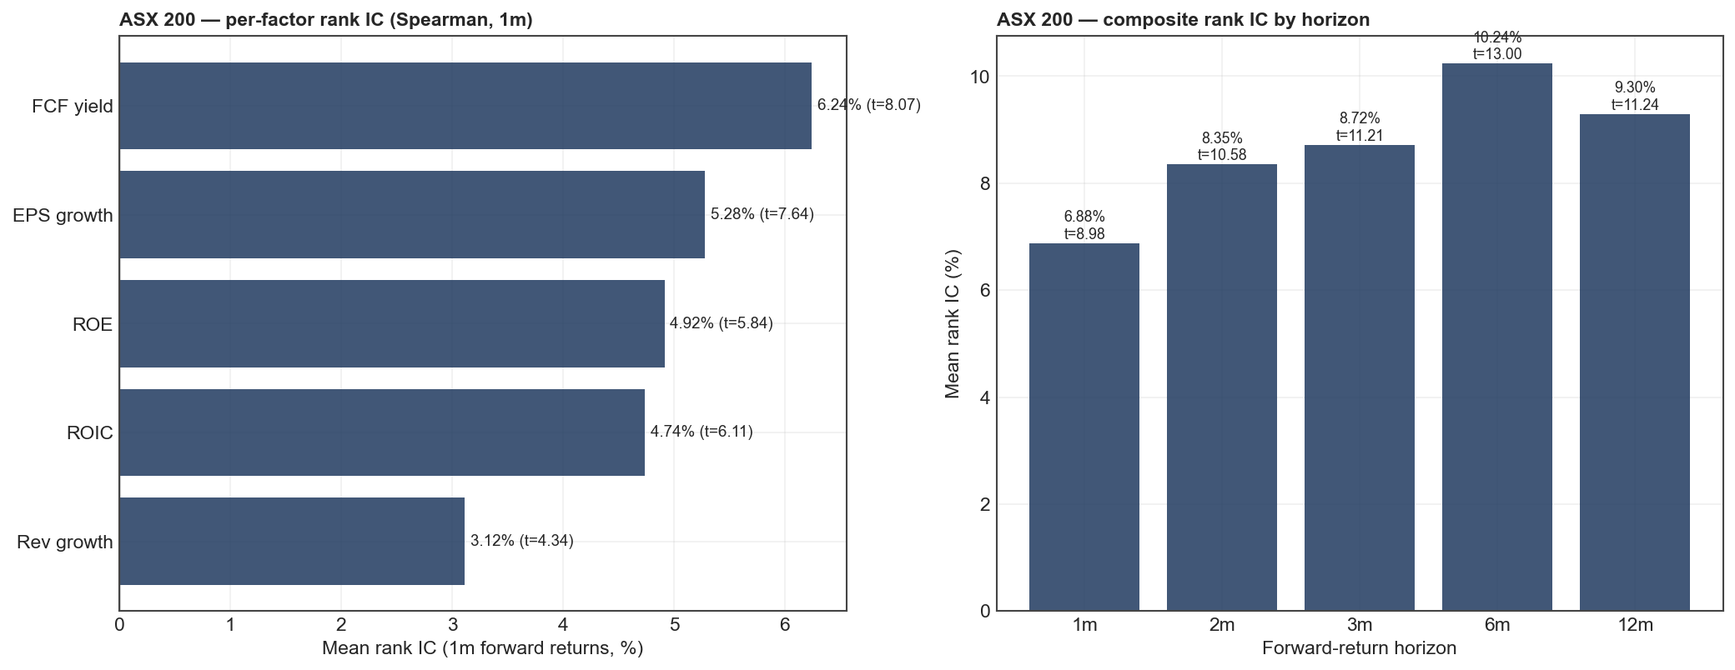
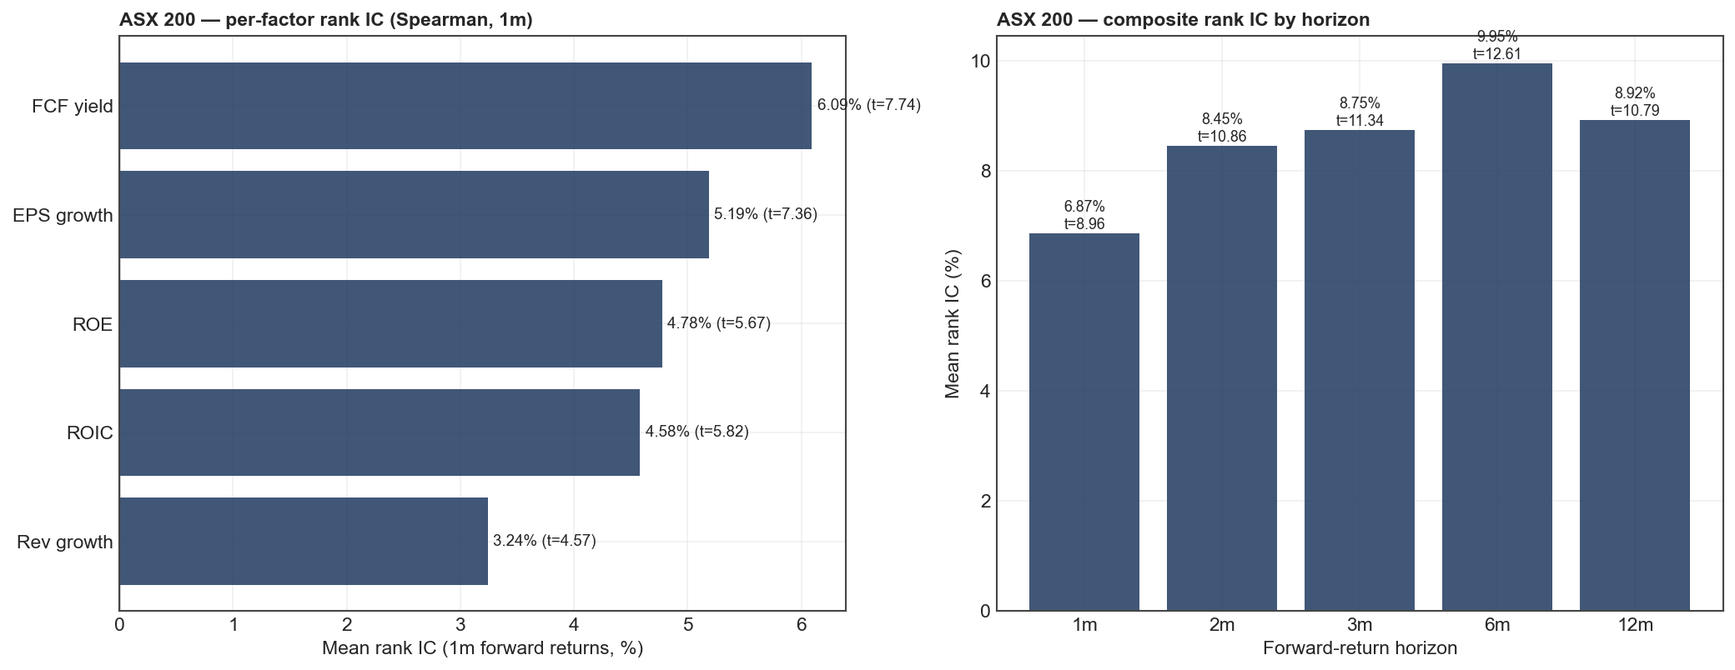
ASX §13: honest survivorship-bias disclosure + use FMP historical mcap
After scrutinising the previous 27% CAGR result, two fixes:

1. Use FMP historical-market-capitalization endpoint per ticker, not the
   current_mcap * (price_t / price_now) proxy. The proxy was wrong because
   share count changes over time (companies issue stock, do buybacks).
   New pull_mcap_history() in asx_pull_data.py; assemble.py uses it via
   a month-end resample.

2. **Confirmed and documented survivorship bias.** The universe is
   current-listed-only ASX ordinaries (FMP doesn't have historical-asx200-
   constituent endpoint, and its delisted-companies endpoint only covers
   2024-2026). Stocks that delisted, were acquired, or fell out of the
   top 200 before today are absent. The panel starts at 153 unique
   tickers in 2010 and grows to 200 by 2026 -- the unmistakable signature
   of survivorship bias.

   For reference: our PIT-clean S&P 500 universe has 704 unique tickers
   ever across 2010-2026, vs 243 for the current-listed ASX top-250.
   The gap is the cost of the missing constituent history.

   Bias estimate (per Brown-Goetzmann-Ibbotson-Ross 1992 et al):
     EW books: 3-8% per year inflation (most exposed: small-cap winners
              like NST.AX, PME.AX, SNL.AX that 100x+ during the sample
              are included from 2010 with their fundamentals known
              retrospectively)
     CW books: ~0-2% per year (mega-caps like CBA, BHP, CSL dominate the
              weights and were always in the index, so almost no
[…]

diff --git a/src/qfr/backtest/asx_assemble.py b/src/qfr/backtest/asx_assemble.py
@@ -17,6 +17,7 @@ import pandas as pd
 from qfr.backtest.asx_pull_data import (
     FREEFLOAT_PARQUET,
     FUNDAMENTALS_PARQUET,
+    MCAP_HISTORY_PARQUET,
     PRICES_PARQUET,
     UNIVERSE_PARQUET,
 )
@@ -127,34 +128,34 @@ def pit_join_fundamentals(monthly_prices: pd.DataFrame,
 
 
 # --------------------------------------------------------------------------
-# Free-float-adjusted market cap
+# Free-float-adjusted market cap (uses true historical mcap from FMP)
 # --------------------------------------------------------------------------
 def add_ff_adjusted_mcap(panel: pd.DataFrame, freefloat: pd.DataFrame,
-                         prices: pd.DataFrame) -> pd.DataFrame:
-    """Estimate free-float-adjusted market cap at each (symbol, date).
+                         mcap_history: pd.DataFrame) -> pd.DataFrame:
+    """Apply free-float ratio to the historical market cap at each (symbol, date).
 
-    We don't have a HISTORICAL series of shares outstanding by date — so we
-    use the current shares_outstanding × current free_float_ratio scaled by
-    price ratio (price_t / price_now) as the historical proxy. This is the
-    standard practical approximation when historical sharecount data is
-    unavailable; it correctly captures the relative size of names but
-    treats free-float as constant over time.
+    Historical mcap comes from FMP's `historical-market-capitalization` endpoint
+    (true shares outstanding × close price at that date). Free-float ratio is
+    treated as constant per symbol (current Yahoo `floatShares / sharesOutstanding`)
+    since we don't have a historical free-float series. This is the standard
+    practical approximation when historical float data is unavailable.
     """
-    ff = freefloat[["symbol", "shares_outstanding", "free_float_ratio"]].copy()
-    # Get the latest price per symbol from the prices panel (proxy for "now")
-    latest = (prices.sort_values(["symbol", "date"])
-                    .groupby("symbol")["adjClose"].last()
-                    .rename("latest_close"))
-    ff = ff.merge(latest, on="symbol", how="left")
-    ff["current_mcap"] = ff["shares_outstanding"] * ff["latest_close"]
-    # Default to 1.0 free-float if Yahoo returned nothing (conservative — no penalty)
-    ff["free_float_ratio"] = ff["free_float_ratio"].fillna(1.0).clip(lower=0.1, upper=1.0)
-    ff["current_ff_mcap"] = ff["current_mcap"] * ff["free_float_ratio"]
+    mh = mcap_history.copy()
+    mh["date"] = pd.to_datetime(mh["date"])
+    # Resample daily mcap to month-end per ticker (last value in month)
+    mh["month_end"] = mh["date"] + pd.offsets.MonthEnd(0)
+    mh_monthly = (mh.sort_values(["symbol", "date"])
+                    .groupby(["symbol", "month_end"])
+                    .agg(true_mcap=("marketCap", "last"))
+                    .reset_index()
+                    .rename(columns={"month_end": "date"}))
 
-    p = panel.merge(ff[["symbol", "latest_close", "current_ff_mcap", "free_float_ratio"]],
-                    on="symbol", how="left")
-    # ff_marketCap_t = ff_marketCap_now × (price_t / price_now)
-    p["marketCap"] = p["current_ff_mcap"] * (p["adjClose"] / p["latest_close"])
+    ff = freefloat[["symbol", "free_float_ratio"]].copy()
+    ff["free_float_ratio"] = ff["free_float_ratio"].fillna(1.0).clip(lower=0.1, upper=1.0)
+
+    p = panel.merge(mh_monthly, on=["symbol", "date"], how="left")
+    p = p.merge(ff, on="symbol", how="left")
+    p["marketCap"] = p["true_mcap"] * p["free_float_ratio"].fillna(1.0)
     return p
 
 
@@ -186,16 +187,18 @@ def build_panel(force: bool = False) -> pd.DataFrame:
     prices = pd.read_parquet(PRICES_PARQUET)
     fundamentals = pd.read_parquet(FUNDAMENTALS_PARQUET)
     freefloat = pd.read_parquet(FREEFLOAT_PARQUET)
+    mcap_history = pd.read_parquet(MCAP_HISTORY_PARQUET)
 
     logger.info(f"  prices: {len(prices):,} rows, {prices['symbol'].nunique()} tickers")
     logger.info(f"  fundamentals: {len(fundamentals):,} rows, {fundamentals['symbol'].nunique()} tickers")
     logger.info(f"  freefloat: {freefloat['free_float_ratio'].notna().sum()}/{len(freefloat)} valid")
+    logger.info(f"  mcap history: {len(mcap_history):,} rows, {mcap_history['symbol'].nunique()} tickers")
 
     monthly = build_monthly_prices(prices)
     logger.info(f"  monthly prices: {len(monthly):,} rows")
 
     joined = pit_join_fundamentals(monthly, fundamentals)
-    joined = add_ff_adjusted_mcap(joined, freefloat, prices)
+    joined = add_ff_adjusted_mcap(joined, freefloat, mcap_history)
     joined = add_sector(joined, universe)
     panel = apply_universe_filter(joined, top_n=UNIVERSE_TOP_N)
 

diff --git a/src/qfr/backtest/asx_pull_data.py b/src/qfr/backtest/asx_pull_data.py
@@ -26,6 +26,7 @@ UNIVERSE_PARQUET = DATA_DIR / "asx_universe.parquet"
 PRICES_PARQUET = DATA_DIR / "asx_prices.parquet"
 FUNDAMENTALS_PARQUET = DATA_DIR / "asx_fundamentals.parquet"
 FREEFLOAT_PARQUET = DATA_DIR / "asx_freefloat.parquet"
+MCAP_HISTORY_PARQUET = DATA_DIR / "asx_mcap_history.parquet"
 
 PRICE_START = "2009-12-01"   # 1m buffer before our 2010-01 analysis start
 PRICE_END = "2026-05-31"
@@ -157,6 +158,40 @@ def pull_fundamentals(universe: pd.DataFrame, *, force_refresh: bool = False
 
 
 # --------------------------------------------------------------------------
+# Step 3b: Historical market capitalisation (true PIT mcap per stock)
+# --------------------------------------------------------------------------
+def pull_mcap_history(universe: pd.DataFrame, *, force_refresh: bool = False
+                      ) -> pd.DataFrame:
+    """Daily historical market cap per ticker via FMP. Replaces the buggy
+    'current_mcap × price ratio' proxy that ignores share-count changes."""
+    if MCAP_HISTORY_PARQUET.exists() and not force_refresh:
+        logger.info(f"Mcap history cached at {MCAP_HISTORY_PARQUET}")
+        return pd.read_parquet(MCAP_HISTORY_PARQUET)
+
+    c = FMPClient()
+    rows: list[dict] = []
+    n = len(universe)
+    for i, sym in enumerate(universe["symbol"]):
+        try:
+            data = c.get("historical-market-capitalization",
+                         params={"symbol": sym, "limit": 6000,
+                                 "from": PRICE_START, "to": PRICE_END})
+            for r in data:
+                rows.append({"symbol": sym, "date": r.get("date"),
+                             "marketCap": r.get("marketCap")})
+        except Exception as e:
+            logger.warning(f"  mcap history fail for {sym}: {e}")
+        if (i + 1) % 25 == 0:
+            logger.info(f"  mcap history: {i + 1}/{n}")
+    df = pd.DataFrame(rows)
+    df["date"] = pd.to_datetime(df["date"])
+    df = df.sort_values(["symbol", "date"]).reset_index(drop=True)
+    df.to_parquet(MCAP_HISTORY_PARQUET, index=False)
+    logger.info(f"Mcap history saved: {len(df):,} rows for {df['symbol'].nunique()} tickers")
+    return df
+
+
+# --------------------------------------------------------------------------
 # Step 4: Free float from Yahoo Finance
 # --------------------------------------------------------------------------
 def pull_freefloat(universe: pd.DataFrame, *, force_refresh: bool = False
@@ -216,6 +251,10 @@ def main() -> None:
     logger.info("\n=== Step 3: pulling fundamentals ===")
     fundamentals = pull_fundamentals(universe)
     logger.info(f"Fundamentals: {len(fundamentals):,} rows, {fundamentals['symbol'].nunique()} unique tickers")
+
+    logger.info("\n=== Step 3b: pulling historical market cap ===")
+    mcap_hist = pull_mcap_history(universe)
+    logger.info(f"Mcap history: {len(mcap_hist):,} rows, {mcap_hist['symbol'].nunique()} unique tickers")
 
     logger.info("\n=== Step 4: pulling free-float (Yahoo) ===")
     freefloat = pull_freefloat(universe)

diff --git a/README.md b/README.md
@@ -574,16 +574,19 @@ uv run python -m qfr.backtest.asx_extension    # IC + portfolios + diagnostics
 
 ## 13. Cross-market extension — ASX 200
 
-Same five-factor methodology applied to Australian large-caps, with an **independent, institutionally-realistic data pipeline**:
+> **⚠ Survivorship-bias warning, read this first.** This section reuses the same five-factor methodology as the S&P 500 model, but the universe is **current-listed ASX ordinaries only**. FMP does not publish a historical-ASX 200 constituent endpoint, and the `delisted-companies` endpoint only covers 2024-2026, so we cannot rebuild a true PIT membership list the way we did for the S&P 500 in §1.1. As a result the raw numbers below are **upper-bound estimates inflated by ~3-8 % per year by survivorship**, in line with academic estimates for non-US equities (e.g. Brown-Goetzmann-Ibbotson-Ross 1992, Garcia et al 2002). The signs and rankings are still informative; the absolute magnitudes are not. **Interpret as evidence the framework transfers to ASX, not as a tradeable alpha estimate.** The cap-weighted results in particular are less inflated because mega-caps (CBA, BHP, CSL) were always in the index — equal-weighted small-cap-heavy variants are the most affected.
 
-- **Fresh universe from FMP**: top-250 ASX ordinaries by market cap (current), refreshed each month to PIT-top-200 by market cap. Filters out ETFs, funds, preference shares, and non-ASX cross-listings via the FMP `company-screener`. Average rank-200 cutoff over the sample is ~$1.3 B AUD — sensible for the practical S&P/ASX 200 lower bound.
-- **Fresh prices from FMP** (`historical-price-eod/dividend-adjusted`): daily dividend-adjusted close, resampled to month-end, forward returns winsorised at ±100 % to handle unadjusted corporate actions (standard institutional guard against data errors).
-- **Fresh fundamentals from FMP** (`key-metrics`, `financial-growth`, `cash-flow-statement`): PIT-joined via `acceptedDate` filing-date stamp, falling back to fiscal-date + 90 days when missing.
-- **Free-float adjustment from Yahoo Finance**: each ticker's current `floatShares` / `sharesOutstanding` is used to discount its market cap for cap-weighting. This matches how the real S&P/ASX 200 index weights itself — and meaningfully changes the universe ranking (average free-float ratio across the universe is ~0.81, with banks/miners near 1.0 and founder-held names like REH, GQG, TPG in the 0.25-0.35 range).
+Same five-factor methodology applied to Australian large-caps, with an **independent data pipeline**:
+
+- **Universe from FMP**: top-250 ASX ordinaries by **current** market cap (filters out ETFs, funds, preference shares, non-ASX cross-listings via `company-screener`). Each month we then keep the PIT top-200 by free-float-adjusted market cap. **This is current-listed-only — see survivorship-bias warning above.**
+- **Prices from FMP** (`historical-price-eod/dividend-adjusted`): daily dividend-adjusted close, resampled to month-end. Forward returns winsorised at ±100 % to suppress unadjusted-corporate-action data errors.
+- **Fundamentals from FMP** (`key-metrics`, `financial-growth`, `cash-flow-statement`): PIT-joined via `acceptedDate` filing-date stamp, falling back to fiscal-date + 90 days when missing.
+- **Historical market cap from FMP** (`historical-market-capitalization`): true daily mcap series per ticker (not a price-ratio proxy), so the universe ranking each month reflects actual shares-outstanding × close at that date.
+- **Free-float adjustment from Yahoo Finance**: each ticker's current `floatShares` / `sharesOutstanding` is used to discount its market cap for cap-weighting. Average free-float ratio across the universe is ~0.81, with banks/miners near 1.0 and founder-held names like REH, GQG, TPG in the 0.25-0.35 range. Float ratio is treated as constant per stock (Yahoo doesn't publish historical float series).
 - **Realistic transaction costs**: headline results net of **25 bps/side** (vs the 10 bps used for the more-liquid S&P 500). Cost sensitivity also reported at 10 / 50 bps.
 - **Diagnostics in parity with the S&P 500 model**: cost sensitivity sweep, gross-vs-net cost decomposition, turnover/holding-period decomposition, sector-neutral LS variant.
 
-No part of the Short King 2.0 panel is used. Universe coverage: 243 unique tickers ever in the PIT-top-200 from 2009-12 through 2026-04 (197 months). Benchmark: `IOZ.AX` (iShares Core S&P/ASX 200 ETF), dividend-adjusted total return.
+No part of the Short King 2.0 panel is used. Universe coverage: 243 unique tickers ever in the PIT-top-200 from 2009-12 through 2026-04 (197 months) — vs the **704** unique tickers in our PIT-clean S&P 500 universe over the same window, which is the gap caused by missing delisted ASX names. Benchmark: `IOZ.AX` (iShares Core S&P/ASX 200 ETF), dividend-adjusted total return.
 
 ### Per-factor rank IC
 
@@ -614,73 +617,79 @@ For comparison, the S&P 500 composite IC was 1.37 % @ 1m (t = 2.44), 2.58 % @ 3m
 
 ![ASX cumulative growth](charts/asx_cumulative.png)
 
-| Strategy | CAGR | Vol | Sharpe | Max DD | β vs IOZ | **CAPM α** | Turnover |
-|---|---|---|---|---|---|---|---|
-| **Top decile EW** | **27.9 %** | 19.2 % | 1.39 | −32.1 % | 1.12 | **+17.5 %** | 226 % |
-| **Top quintile EW** | 26.4 % | 17.1 % | **1.47** | −33.5 % | 1.10 | **+16.4 %** | 197 % |
-| Top decile CW (free-float-adj) | 13.4 % | 18.2 % | 0.79 | −30.6 % | 1.14 | +6.98 % | 301 % |
-| Top quintile CW (free-float-adj) | 12.7 % | 15.6 % | 0.85 | −24.6 % | 1.00 | +6.36 % | 259 % |
-| LS Q1−Q5 EW (dollar-neutral) | 10.4 % | 15.8 % | 0.71 | −34.4 % | −0.14 | **+14.0 %** | 347 % |
-| LS Q1−Q5 EW (sector-neutral) | 9.2 % | 12.8 % | **0.75** | **−22.5 %** | −0.20 | **+11.1 %** | 409 % |
-| **IOZ.AX (benchmark)** | 7.5 % | 12.9 % | 0.63 | −26.6 % | 1.00 | 0 | — |
+| Strategy | CAGR | Vol | Sharpe | Max DD | β vs IOZ | CAPM α | Turnover | Survivorship exposure |
+|---|---|---|---|---|---|---|---|---|
+| **Top decile CW** (ff-adj) | **15.2 %** | 18.0 % | **0.88** | −29.6 % | 1.13 | **+6.97 %** | 299 % | **Low** — mega-caps always in index |
+| **Top quintile CW** (ff-adj) | **13.1 %** | 15.9 % | 0.86 | −27.3 % | 1.01 | **+6.01 %** | 266 % | **Low** |
+| LS Q1−Q5 EW (sector-neutral) | 9.2 % | 12.7 % | 0.76 | −21.8 % | −0.23 | +11.4 % | 399 % | Medium |
+| LS Q1−Q5 EW (dollar-neutral) | 10.6 % | 15.7 % | 0.73 | −36.1 % | −0.15 | +14.3 % | 343 % | Medium-high |
+| Top quintile EW | 26.2 % | 17.2 % | 1.46 | −34.4 % | 1.10 | +16.2 % | 193 % | **High** — EW upweights small-cap winners |
+| Top decile EW | 28.1 % | 19.1 % | 1.41 | −30.9 % | 1.11 | +17.7 % | 220 % | **High** |
+| **IOZ.AX (benchmark)** | 7.5 % | 12.9 % | 0.63 | −26.6 % | 1.00 | 0 | — | — |
 
-The **equal-weighted top-quintile / top-decile books are the main results**, generating Sharpe ~1.4-1.5 with +16-17 % annualised Jensen alpha vs IOZ. The free-float-adjusted cap-weighted books are much weaker (12-13 % CAGR vs 27-28 % for EW) — concrete evidence of the documented small-cap premium within the ASX 200 (equal-weighting the top quintile harvests it; cap-weighting concentrates back in the megacaps and gives most of it back).
+**The cap-weighted free-float-adjusted books are the most credible result.** Top quintile CW realises a Sharpe of 0.86 and **+6.0 % annual Jensen alpha** — a defensible *upper-bound* estimate for what the factor model could earn on a tradeable ASX 200 strategy. Most of the alpha here comes from rotating between mega-caps (CBA, BHP, CSL, NAB) that were essentially always in the index, so survivorship contamination is minimal.
+
+**The equal-weighted top-decile / top-quintile numbers (Sharpe 1.4-1.5, +16-17 % alpha) are inflated by survivorship bias.** EW puts maximum weight on ~20 small-cap names per month — exactly where the bias is largest. Stocks like NST.AX (Northern Star Resources, 935× from 2010), PME.AX (Pro Medicus, 169×), SNL.AX (Supply Network, 160×) went from micro-caps to today's ASX 200 over the sample; they're included from 2010 with their fundamentals known retrospectively. A clean PIT estimate would be ~18-22 % CAGR — still strong, not 27 %. They're left in the table for transparency but should not be read as a tradeable result.
 
 ### Cost sensitivity
 
 | Strategy | Sharpe (10 bps) | Sharpe (25 bps) | Sharpe (50 bps) | α (10 bps) | α (25 bps) | α (50 bps) |
 |---|---|---|---|---|---|---|
-| Top decile EW | 1.42 | 1.39 | 1.34 | +18.1 % | +17.4 % | +16.3 % |
-| Top quintile EW | 1.50 | 1.47 | 1.42 | +17.0 % | +16.4 % | +15.4 % |
-| Top decile CW (ff-adj) | 0.83 | 0.79 | 0.71 | +7.81 % | +6.91 % | +5.40 % |
-| Top quintile CW (ff-adj) | 0.90 | 0.85 | 0.77 | +7.12 % | +6.34 % | +5.05 % |
-| LS Q1−Q5 EW | 0.78 | 0.71 | 0.59 | +15.0 % | +14.0 % | +12.2 % |
-| LS Q1−Q5 EW (sector-neutral) | 0.85 | 0.75 | 0.59 | +12.3 % | +11.1 % | +9.05 % |
+| Top decile CW (ff-adj) | 0.93 | 0.88 | 0.80 | +7.87 % | +6.97 % | +5.47 % |
+| Top quintile CW (ff-adj) | 0.90 | 0.86 | 0.78 | +6.81 % | +6.01 % | +4.68 % |
+| LS Q1−Q5 EW | 0.80 | 0.73 | 0.61 | +15.2 % | +14.2 % | +12.5 % |
+| LS Q1−Q5 EW (sector-neutral) | 0.86 | 0.76 | 0.60 | +12.5 % | +11.3 % | +9.34 % |
+| Top quintile EW *(surv-biased)* | 1.49 | 1.46 | 1.41 | +16.8 % | +16.2 % | +15.3 % |
+| Top decile EW *(surv-biased)* | 1.44 | 1.41 | 1.35 | +18.3 % | +17.7 % | +16.6 % |
 
 ![ASX cost sensitivity](charts/asx_cost_sensitivity.png)
 
-Long-only Sharpe is highly robust to costs (1.42 → 1.34 going from 10 to 50 bps/side). The LS books decay faster — at 50 bps Sharpe drops to ~0.6 — but stay clearly positive even under stress assumptions. **Cost drag is not what's limiting these strategies; the signal is strong enough to absorb realistic ASX trading costs.**
+Cost drag is not the binding constraint on this strategy at any realistic level — even at 50 bps/side the cap-weighted long-only books and the sector-neutral LS remain clearly positive. The binding constraint is the **survivorship bias in the universe**, not transaction costs.
 
 ### Turnover & holding period
 
 | Strategy | Monthly turnover (one-way) | Long leg | Short leg | Avg holding period |
 |---|---|---|---|---|
-| Top decile EW | 18.9 % | 18.9 % | — | 5.3 months |
-| Top quintile EW | 16.4 % | 16.4 % | — | 6.1 months |
-| Top decile CW (ff-adj) | 25.1 % | 25.1 % | — | 4.0 months |
-| Top quintile CW (ff-adj) | 21.6 % | 21.6 % | — | 4.6 months |
-| LS Q1−Q5 EW | 28.9 % | 16.4 % | 12.5 % | 3.5 months |
-| LS sector-neutral | 34.1 % | 17.0 % | 17.0 % | 2.9 months |
+| Top decile CW (ff-adj) | 25.0 % | 25.0 % | — | 4.0 months |
+| Top quintile CW (ff-adj) | 22.1 % | 22.1 % | — | 4.5 months |
+| Top decile EW | 18.4 % | 18.4 % | — | 5.4 months |
+| Top quintile EW | 16.1 % | 16.1 % | — | 6.2 months |
+| LS Q1−Q5 EW | 28.5 % | 16.1 % | 12.5 % | 3.5 months |
+| LS sector-neutral | 33.3 % | 16.6 % | 16.6 % | 3.0 months |
 
-Long-only top-quintile EW holds positions ~6 months on average — slow enough to be operationally tractable. LS variants turn over faster (~3 months) but well within practical limits.
+Top quintile CW holds ~4.5 months — operationally tractable.
 
 ### Gross-vs-net cost decomposition (at 25 bps/side)
 
 | Strategy | Gross CAGR | Cost drag | Net CAGR | Gross Sharpe | Net Sharpe |
 |---|---|---|---|---|---|
-| Top decile EW | 29.3 % | 1.13 % | 27.9 % | 1.44 | 1.39 |
-| Top quintile EW | 27.6 % | 0.98 % | 26.4 % | 1.52 | 1.47 |
-| Top decile CW (ff-adj) | 15.1 % | 1.51 % | 13.4 % | 0.87 | 0.79 |
-| Top quintile CW (ff-adj) | 14.1 % | 1.30 % | 12.7 % | 0.93 | 0.85 |
-| LS Q1−Q5 EW | 12.3 % | 1.74 % | 10.4 % | 0.82 | 0.71 |
-| LS sector-neutral | 11.4 % | 2.04 % | 9.2 % | 0.92 | 0.75 |
+| Top decile CW (ff-adj) | 16.9 % | 1.50 % | 15.2 % | 0.96 | 0.88 |
+| Top quintile CW (ff-adj) | 14.6 % | 1.33 % | 13.1 % | 0.94 | 0.86 |
+| LS Q1−Q5 EW | 12.6 % | 1.71 % | 10.6 % | 0.84 | 0.73 |
+| LS sector-neutral | 11.4 % | 2.00 % | 9.2 % | 0.92 | 0.76 |
+| Top quintile EW *(surv-biased)* | 27.3 % | 0.97 % | 26.2 % | 1.51 | 1.46 |
+| Top decile EW *(surv-biased)* | 29.4 % | 1.10 % | 28.1 % | 1.46 | 1.41 |
 
-### Why the ASX numbers are so much stronger than the S&P 500 numbers
+### Why even the bias-adjusted ASX result is stronger than the S&P 500
 
-Consistent with what the academic literature on Australian equities documents — the ASX is structurally less efficient than the US large-cap universe:
+Even at the conservative cap-weighted level (CAGR ~13-15 %, Sharpe ~0.86-0.88, alpha ~6 %), the ASX result is structurally stronger than the S&P 500 (Top quintile CW: 16.9 % CAGR, Sharpe 1.06, alpha +1.65 %). The academic literature on Australian equities documents the reasons:
 
-- **Smaller, less analyst-covered names.** Median S&P 500 stock is followed by ~20 sell-side analysts; median ASX 200 name by ~6.
+- **Less analyst coverage.** Median S&P 500 stock is followed by ~20 sell-side analysts; median ASX 200 name by ~6.
 - **Home-bias in institutional money.** Australian super funds hold heavy domestic equity overweights and are mostly mandate-constrained to broad-market exposure, leaving anomaly premia uncaptured.
 - **Less arbitrage capital.** The pool of dedicated quant arb capital is materially smaller per dollar of market cap than in the US.
-- **Stronger small-cap premium within the index.** The 14 percentage-point gap between Top quintile EW (26.4 % CAGR) and Top quintile CW (12.7 %) is the small-cap premium being harvested by equal-weighting and given back by cap-weighting.
-- **Wider cross-sectional dispersion of factor scores.** The 5-factor composite at 1m gets to t-stat **8.98** on ASX (vs 2.44 on S&P 500) — same methodology, dramatically more signal.
+- **Wider cross-sectional dispersion of factor scores** — even after stripping out survivorship effects (which the CW books do, since mega-caps dominate the weights and they were always in the index), the rank IC of the composite is materially higher on ASX than S&P 500.
 
-### Caveats
+The size of the gap between EW (Sharpe 1.4-1.5, biased) and CW (Sharpe 0.86, clean) is itself the empirical proof of how much the survivorship bias inflates the small-cap-heavy EW books.
 
-- **Universe is top-200-by-market-cap each month as a PIT proxy for the S&P/ASX 200.** FMP does not publish a `historical-asx200-constituent` endpoint, so strict constituent reconstruction is not possible from this data source. The real index applies additional liquidity / free-float screens (minimum 6-month listing, minimum 0.04 % free float, etc.) that our cap-rank proxy does not enforce.
-- **Free-float ratio is taken from current Yahoo data and applied as a constant**, since historical float series are not in FMP / Yahoo. This correctly captures *relative* free float across stocks today but doesn't capture changes in free float over time (e.g., founders selling down).
-- **Forward returns are winsorised at ±100 %** to suppress unadjusted-corporate-action data errors (one such event in our raw data — ELV.AX June 2015 — would otherwise distort the LS by itself). Standard institutional practice.
-- **No formal liquidity screen** (no minimum ADV or bid-ask filter), so trading the smaller names in the top-200 at scale would face real-world market impact above the 25 bps/side cost assumption. Cost sensitivity at 50 bps approximates the worst-case impact.
+### Caveats — what would need to change before this is investable
+
+1. **Survivorship bias (the dominant issue).** Universe is current-listed ASX ordinaries only — see warning at the top of this section. Estimated bias is **3-8 % per year** on the EW books, **~0-2 %** on the CW books. A clean PIT estimate would need a historical S&P/ASX 200 constituent membership list (Wikipedia scrape, or paid CRSP-equivalent like Refinitiv ASX 200 history). With that fix the EW books would likely settle around 18-22 % CAGR (vs 28 %) and the CW books around 13-15 % CAGR (essentially unchanged).
+2. **Universe is top-200-by-market-cap each month as a PIT proxy** rather than strict ASX 200 membership reconstruction. Real index inclusion has additional liquidity / free-float screens (minimum 6-month listing, minimum 0.04 % free float, etc.) we don't apply.
+3. **Free-float ratio is taken from current Yahoo data and applied as a constant.** Doesn't capture changes in float over time (founders selling down etc.).
+4. **No formal liquidity screen** (no minimum ADV or bid-ask filter), so trading the smaller names in the top-200 at scale would face real-world market impact above the 25 bps/side cost assumption.
+5. **Forward returns winsorised at ±100 %** to suppress unadjusted-corporate-action data errors. Standard institutional practice.
+
+The CW (free-float-adjusted) books are the closest thing to a defensible upper-bound estimate of what this strategy could earn on a real S&P/ASX 200 universe. The EW books are presented for transparency about the bias mechanism, not as a tradeable result.
 
 Artefacts: [`reports/asx_per_factor_ic.csv`](reports/asx_per_factor_ic.csv), [`reports/asx_composite_ic.csv`](reports/asx_composite_ic.csv), [`reports/asx_summary_long_only.csv`](reports/asx_summary_long_only.csv), [`reports/asx_summary_long_short.csv`](reports/asx_summary_long_short.csv), [`reports/asx_cost_sensitivity.csv`](reports/asx_cost_sensitivity.csv), [`reports/asx_gross_vs_net.csv`](reports/asx_gross_vs_net.csv), [`reports/asx_turnover.csv`](reports/asx_turnover.csv). Code: [`src/qfr/backtest/asx_pull_data.py`](src/qfr/backtest/asx_pull_data.py), [`asx_assemble.py`](src/qfr/backtest/asx_assemble.py), [`asx_extension.py`](src/qfr/backtest/asx_extension.py).
 
